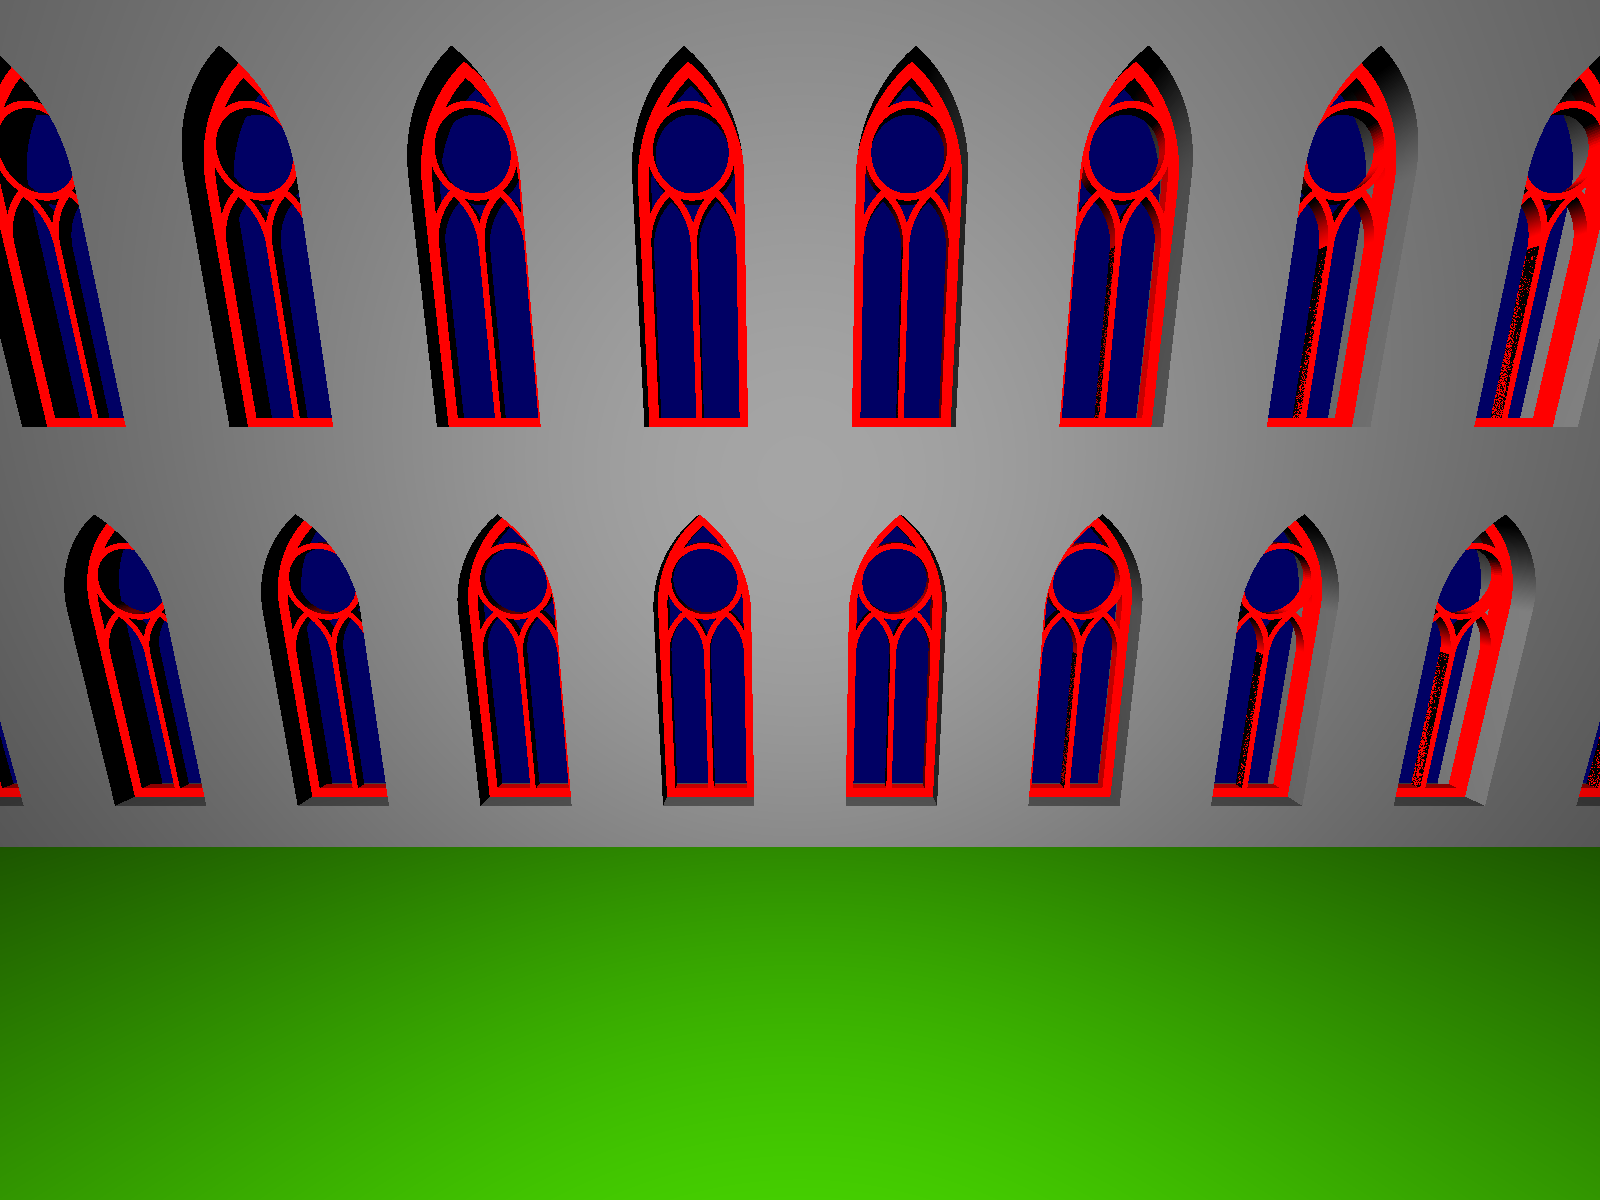
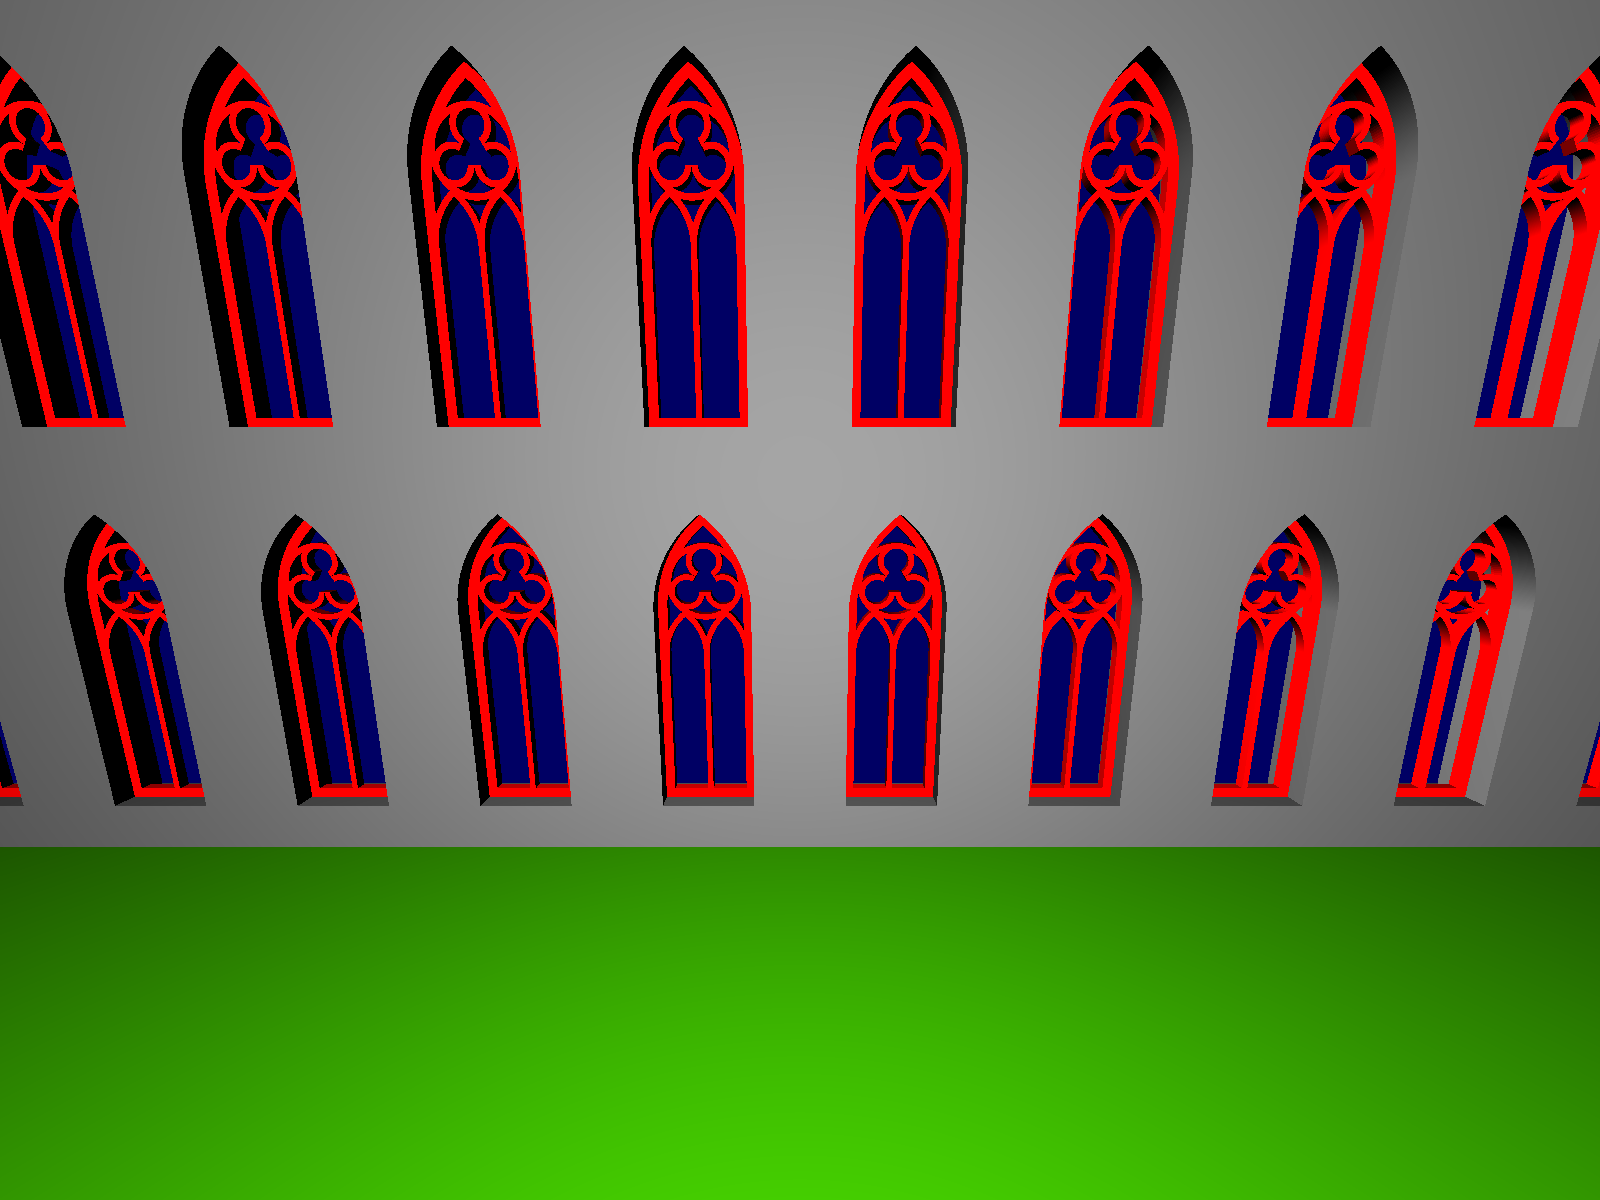
rosette foils added

diff --git a/gothic.go b/gothic.go
@@ -162,6 +162,10 @@ func emptyArchWindowTracery(params emptyArchWindowTraceryParams) m.Object {
 	outerArch := createArch(params.pL, params.pR, mL, mR, params.numPoints)
 	outerFrame := append([]m.Vector{params.pR, params.bpR, params.bpL, params.pL}, outerArch.left...)
 	outerFrame = append(outerFrame, outerArch.right...)
+	outerRev := make([]m.Vector, len(outerFrame))
+	for i, v := range outerFrame {
+		outerRev[len(outerFrame)-1-i] = v
+	}
 
 	ipL := m.Vector{params.pL.X + params.offset, params.pL.Y, params.pL.Z}
 	ipR := m.Vector{params.pR.X - params.offset, params.pR.Y, params.pR.Z}
@@ -181,7 +185,7 @@ func emptyArchWindowTracery(params emptyArchWindowTraceryParams) m.Object {
 
 	ef := gen.ExtrusionFace{
 		Front:    front,
-		Outer:    [][]m.Vector{outerFrame},
+		Outer:    [][]m.Vector{outerRev},
 		Inner:    [][]m.Vector{innerFrame},
 		Material: params.material,
 	}
@@ -208,6 +212,8 @@ type archWindowTraceryParams struct {
 	bpR m.Vector
 	// number of points on a quarter circle arc
 	numPoints int
+	// number of foils on the rosette
+	numFoils int
 }
 
 // archWindowTracery returns window tracery object
@@ -252,11 +258,43 @@ func archWindowTracery(params archWindowTraceryParams) m.Object {
 	b := math.Sqrt(a*a - c*c)
 	y := (a/b)*math.Sqrt(b*b-math.Pow(pM.X-center.X, 2)) + center.Y
 	mC := m.Vector{pM.X, y, 0}
-
 	r := rR - m.VectorFromTo(mC, mR).Length()
-	innerCircle := gen.NewCircle(mC, r)
+	rparams := rosetteParams{
+		material:  params.material,
+		center:    mC,
+		radius:    r,
+		width:     params.innerWidth,
+		depth:     params.depth,
+		numPoints: params.numPoints,
+		numFoils:  params.numFoils,
+	}
+	rosette := rosette(rparams)
+
+	// right sub arch
+	eparams.pL = pM.Sub(innerWidth.Times(0.5))
+	eparams.bpL = bpM.Sub(innerWidth.Times(0.5))
+	eparams.pR = params.pR.Add(verticalOffset).Sub(innerOffset)
+	eparams.bpR = params.bpR.Sub(innerOffset)
+	rightArch := emptyArchWindowTracery(eparams)
+
+	return m.NewComplexObject([]m.Object{mainArch, leftArch, rightArch, rosette})
+}
+
+type rosetteParams struct {
+	material  m.Material
+	center    m.Vector
+	radius    float64
+	width     float64
+	depth     float64
+	numPoints int
+	numFoils  int
+	// TODO lying vs standing
+}
+
+func rosette(params rosetteParams) m.Object {
+	innerCircle := gen.NewCircle(params.center, params.radius)
 	ip := innerCircle.PointsPhaseRange(0, 2*math.Pi, params.numPoints, ex, ey)
-	outerCircle := gen.NewCircle(mC, r+params.innerWidth)
+	outerCircle := gen.NewCircle(params.center, params.radius+params.width)
 	op := outerCircle.PointsPhaseRange(0, 2*math.Pi, params.numPoints, ex, ey)
 	ipRev := make([]m.Vector, len(ip))
 	for i, v := range ip {
@@ -274,14 +312,41 @@ func archWindowTracery(params archWindowTraceryParams) m.Object {
 		Inner:    [][]m.Vector{ipRev},
 		Material: params.material,
 	}
-	rosette := gen.Extrude(ef, m.Vector{0, 0, params.depth})
+	circle := gen.Extrude(ef, m.Vector{0, 0, params.depth})
 
-	// right sub arch
-	eparams.pL = pM.Sub(innerWidth.Times(0.5))
-	eparams.bpL = bpM.Sub(innerWidth.Times(0.5))
-	eparams.pR = params.pR.Add(verticalOffset).Sub(innerOffset)
-	eparams.bpR = params.bpR.Sub(innerOffset)
-	rightArch := emptyArchWindowTracery(eparams)
+	alpha := (2 * math.Pi) / float64(params.numFoils)
+	rR := params.radius + params.width
+	rF := (math.Sin(alpha/2.0) * rR) / (math.Sin(alpha/2.0) + 1)
+	foilCircle := gen.NewCircle(params.center, rR-rF)
 
-	return m.NewComplexObject([]m.Object{mainArch, leftArch, rightArch, rosette})
+	foils := make([]m.Object, params.numFoils)
+	for n := 0; n < params.numFoils; n++ {
+		// pi/2 determines lying/standing rosette for now
+		beta := (math.Pi / 2) + float64(n)*alpha
+		foilCenter := foilCircle.Point(beta, ex, ey)
+		outerCircle = gen.NewCircle(foilCenter, rF)
+		from := beta - (math.Pi+alpha)/2.0
+		to := beta + (math.Pi+alpha)/2.0
+		op = outerCircle.PointsPhaseRange(from, to, params.numPoints, ex, ey)
+		innerCircle = gen.NewCircle(foilCenter, rF-params.width)
+		ip = innerCircle.PointsPhaseRange(from, to, params.numPoints, ex, ey)
+		// we join innercircle points to outercircle points list
+		// as they form one outline of the foil form
+		for i := len(ip) - 1; i >= 0; i-- {
+			op = append(op, ip[i])
+		}
+
+		triangles = gen.JoinPointsNonCircular([][]m.Vector{ip, op}, params.material)
+		rface = make([]m.Triangle, len(triangles))
+		for i, o := range triangles {
+			rface[len(triangles)-1-i] = o.(m.Triangle)
+		}
+		ef = gen.ExtrusionFace{
+			Front:    rface,
+			Outer:    [][]m.Vector{op},
+			Material: params.material,
+		}
+		foils[n] = gen.Extrude(ef, m.Vector{0, 0, params.depth})
+	}
+	return m.NewComplexObject(append(foils, circle))
 }

diff --git a/main.go b/main.go
@@ -62,6 +62,7 @@ func main() {
 		bpL:            m.Vector{0.25, 0.25, 0},
 		bpR:            m.Vector{0.75, 0.25, 0},
 		numPoints:      100,
+		numFoils:       3,
 	}
 	t := archWindowTracery(awtparams)
 
